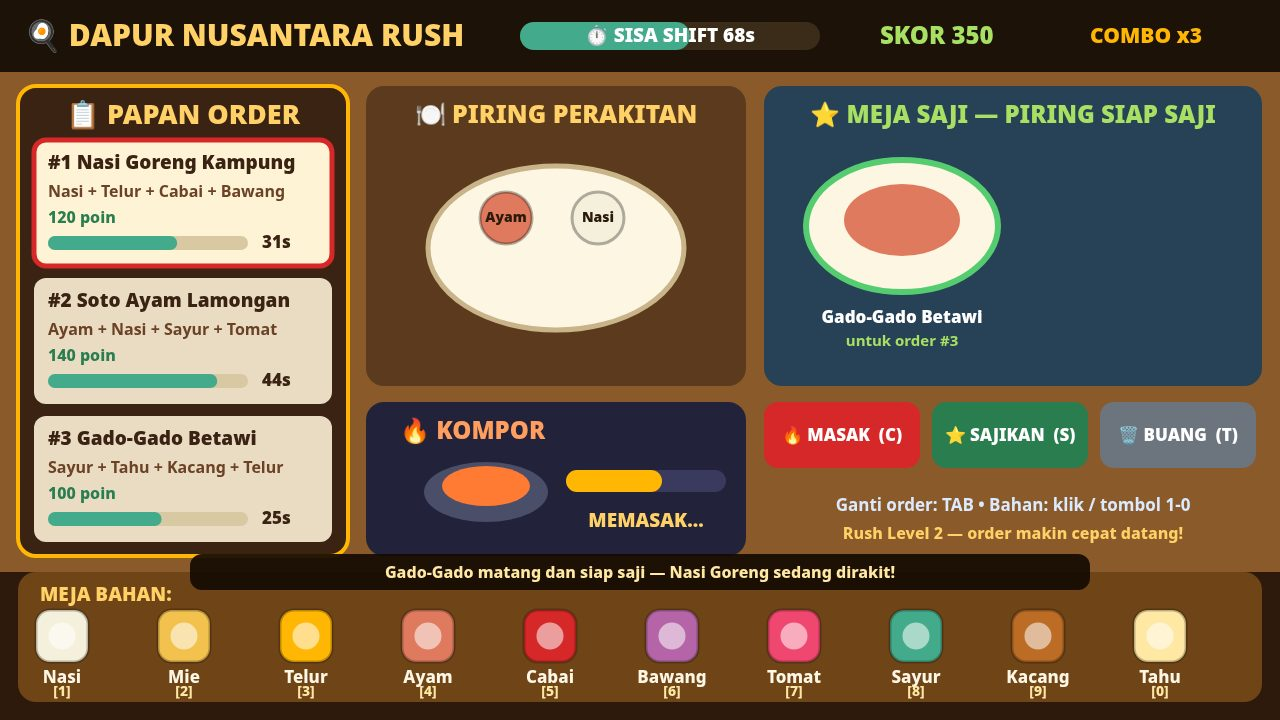
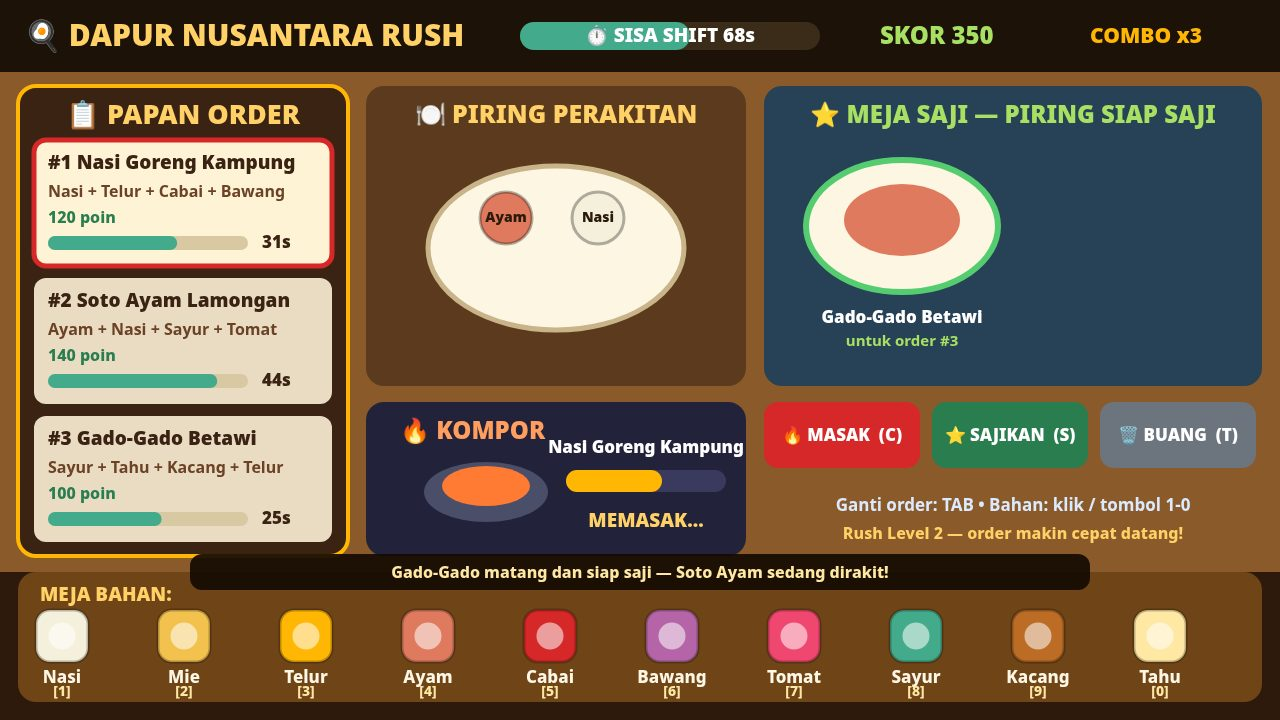
Fix cooking screenshot scene, stove dish label, add README with make.fun badges

Changed region(s): [[0.3125, 0.7639, 0.6875, 0.825], [0.4062, 0.6111, 0.5938, 0.6417]]

diff --git a/game/src/screenshotModes.js b/game/src/screenshotModes.js
@@ -22,12 +22,17 @@ export function applyScreenshotScene(state, shotName) {
   state.orders[2].patienceLeft = 25;
   state.selectedOrderNumber = state.orders[0].number;
 
-  if (shotName === 'cover' || shotName === 'cooking') {
-    state.plate = ['rice', 'egg', 'chili'];
+  if (shotName === 'cover') {
     state.cooking = { active: true, progress: 1.8, duration: 3.0, recipeId: 'nasgor', orderNumber: state.orders[0].number };
     state.plate = ['chicken', 'rice'];
     state.readyPlates = [{ recipeId: 'gado', recipeName: 'Gado-Gado Betawi', orderNumber: state.orders[2].number }];
-    state.flashMessage = 'Gado-Gado matang dan siap saji — Nasi Goreng sedang dirakit!';
+    state.flashMessage = 'Gado-Gado matang dan siap saji — Soto Ayam sedang dirakit!';
+    state.flashSeconds = 99;
+  } else if (shotName === 'cooking') {
+    state.plate = [];
+    state.cooking = { active: true, progress: 2.6, duration: 3.0, recipeId: 'nasgor', orderNumber: state.orders[0].number };
+    state.readyPlates = [];
+    state.flashMessage = 'Nasi Goreng Kampung di kompor — hampir matang, siapkan meja saji!';
     state.flashSeconds = 99;
   } else if (shotName === 'orders') {
     state.plate = ['rice', 'egg'];

diff --git a/game/src/renderKitchen.js b/game/src/renderKitchen.js
@@ -4,7 +4,7 @@
 // right, and the shift timer + score across the top. Big labels, big shapes:
 // every screenshot must read clearly even when shrunk to a thumbnail.
 
-import { INGREDIENTS, ingredientById } from './recipes.js';
+import { INGREDIENTS, ingredientById, recipeById } from './recipes.js';
 import { rushLevelForElapsed } from './kitchenState.js';
 
 export const VIEW_WIDTH = 1280;
@@ -86,6 +86,8 @@ export function drawAssemblyAndStove(ctx, state) {
     ctx.fillStyle = '#ff7b33';
     ctx.beginPath(); ctx.ellipse(486, 486, 44, 20, 0, 0, Math.PI * 2); ctx.fill();
     const ratio = state.cooking.progress / state.cooking.duration;
+    const cookingRecipe = recipeById(state.cooking.recipeId);
+    if (cookingRecipe) drawText(ctx, cookingRecipe.name, 646, 448, 17, '#ffffff', 'center', '900');
     ctx.fillStyle = '#3a3a5e'; roundRect(ctx, 566, 470, 160, 22, 11); ctx.fill();
     ctx.fillStyle = '#ffb703'; roundRect(ctx, 566, 470, 160 * ratio, 22, 11); ctx.fill();
     drawText(ctx, 'MEMASAK…', 646, 522, 19, '#ffd166', 'center', '900');

diff --git a/README.md b/README.md
@@ -1,0 +1,30 @@
+# Dapur Nusantara Rush
+
+[![make.fun · best-cooking-game-20261125-0137](https://make.fun/badge/best-cooking-game-20261125-0137.svg)](https://make.fun/bounty/best-cooking-game-20261125-0137?utm_source=github&utm_medium=readme&utm_campaign=best-cooking-game-20261125-0137)
+[![rank](https://make.fun/badge/best-cooking-game-20261125-0137/wahyualphaid-sys/bot-cooking-game-20261125/rank.svg)](https://make.fun/bounty/best-cooking-game-20261125-0137/leaderboard?utm_source=github&utm_medium=readme&utm_campaign=best-cooking-game-20261125-0137)
+[![reward](https://make.fun/badge/best-cooking-game-20261125-0137/wahyualphaid-sys/bot-cooking-game-20261125/reward.svg)](https://make.fun/bounty/best-cooking-game-20261125-0137?utm_source=github&utm_medium=readme&utm_campaign=best-cooking-game-20261125-0137)
+
+A complete, original cooking game built by an AI agent for [make.fun](https://make.fun)'s "Make the best cooking game" bounty. Run a busy Indonesian warung kitchen: read the order board, grab ingredients from the counter, assemble each dish on the plate, cook it on the stove, and serve it before the customer's patience — and your 120-second shift — runs out. Combos, rush levels and expiring orders keep the pressure rising.
+
+## How to play
+
+- Click an ingredient on the counter (or press keys 1-0) to add it to the assembly plate.
+- Match the selected order's recipe exactly, then press MASAK (C) to cook on the stove.
+- When the dish is ready on the serving counter, press SAJIKAN (S) to serve it and score.
+- Wrong plate? BUANG (T) clears it. TAB switches the selected order. R restarts after the shift.
+
+## Run it
+
+```sh
+node serve.ts        # serves game/ at http://localhost:8080
+```
+
+Or hand it in like the grader:
+
+```sh
+mkdir -p out && MAKEFUN_OUTPUT_DIR=out node main.ts
+```
+
+Plain vanilla JavaScript, no libraries, no network requests — the game plays fully offline in desktop Chrome.
+
+Referral: px24915w
